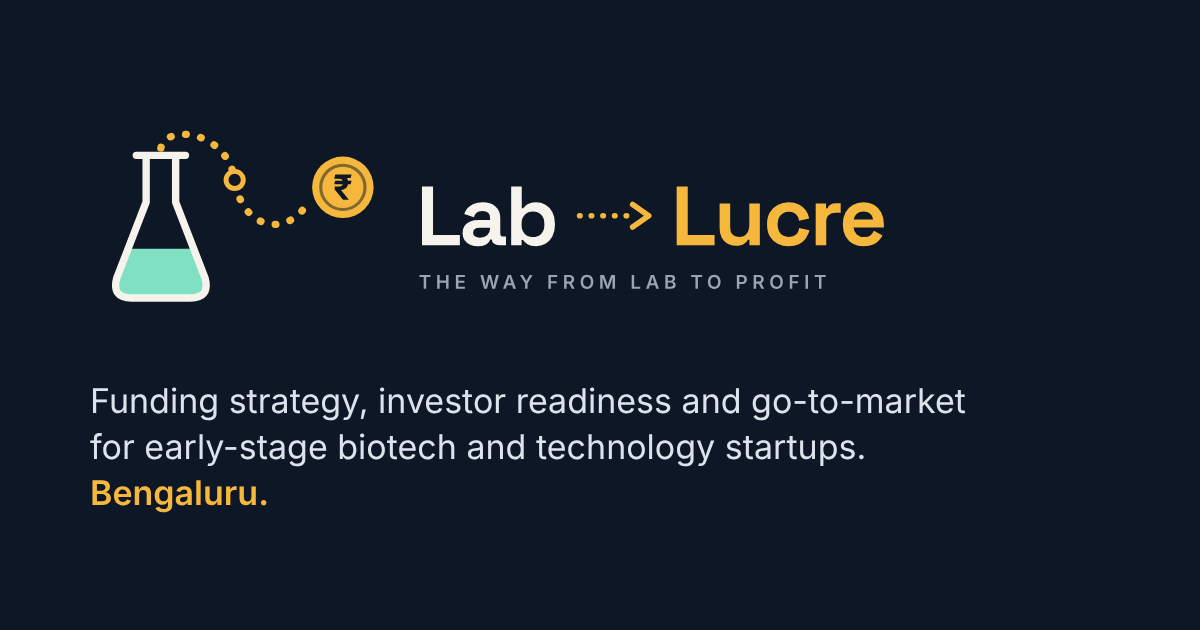
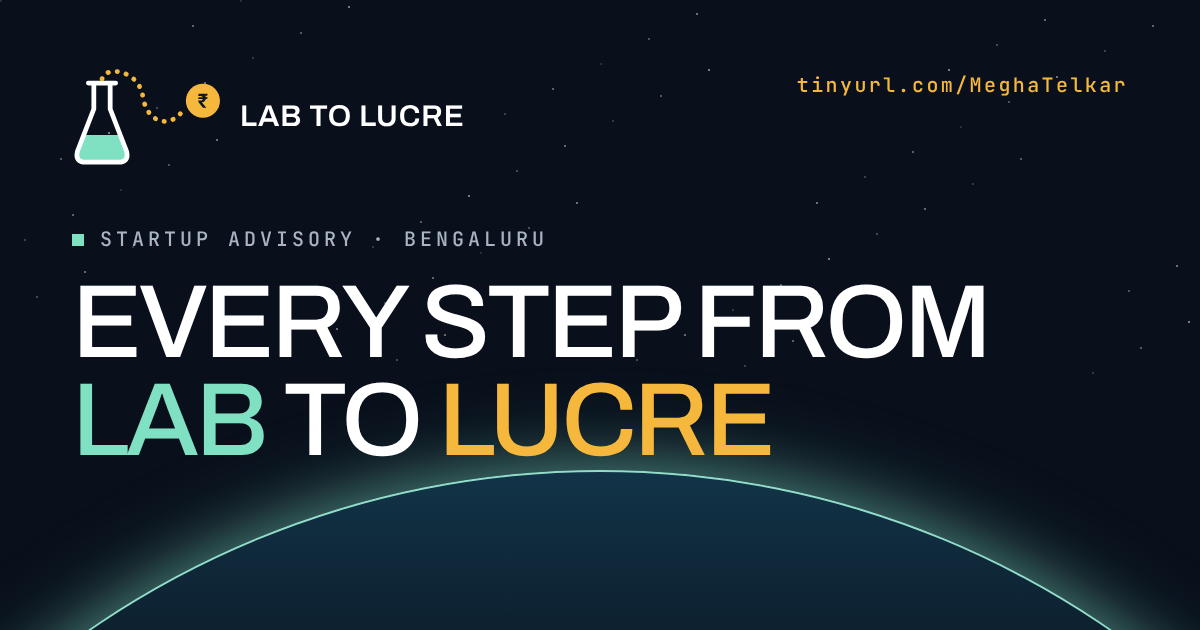
Remove repeated CTAs and copy; footer wordmark with falling coins; launch checklist fixes
One Book a 1:1 (header), no duplicate services/email/LinkedIn/slots blocks,
quiz progress bar and score ring, form and copy confirmations, new OG
image, shorter title and description for search results.

Claude-Session: https://claude.ai/code/session_016mQ2kp5KHzcSRUk6zS9FB7

diff --git a/index.html b/index.html
@@ -7,8 +7,8 @@
 <meta name="referrer" content="strict-origin-when-cross-origin">
 <meta http-equiv="X-Content-Type-Options" content="nosniff">
 <meta http-equiv="Permissions-Policy" content="camera=(), microphone=(), geolocation=(), payment=()">
-<title>Lab to Lucre | Funding strategy for early-stage startups, by Megha Telkar</title>
-<meta name="description" content="Lab to Lucre helps early-stage biotech, life-science and technology founders in India get investor-ready: funding strategy, investor readiness and go-to-market, with a written plan in 5 days.">
+<title>Lab to Lucre | Startup funding strategy by Megha Telkar</title>
+<meta name="description" content="Funding strategy, investor readiness and go-to-market for early-stage biotech, life-science and tech startups in India. A written plan in 5 working days.">
 <meta name="author" content="Megha Telkar">
 <meta name="robots" content="index, follow">
 <meta name="theme-color" content="#0E1726">
@@ -121,10 +121,11 @@ nav.main{display:flex;align-items:center;justify-content:space-between;height:68
   .burger{display:block}
   .newsbar .right{display:none}
 }
-@media (max-width:520px){.nav-cta{display:none}.newsbar{font-size:.64rem}}
+.btn{white-space:nowrap}
+@media (max-width:520px){.nav-cta{padding:10px 14px;letter-spacing:.06em;font-size:.7rem}.nav-cta .ar,.nav-cta .live{display:none}.logo span{font-size:.88rem}.logo .mark{width:36px}}
 
 /* hero */
-.hero{background:var(--night);color:var(--white);min-height:100vh;min-height:100svh;padding:168px 0 0;display:flex;flex-direction:column;overflow:hidden;isolation:isolate}
+.hero{background:var(--night);color:var(--white);min-height:100vh;min-height:100svh;padding:140px 0 0;display:flex;flex-direction:column;overflow:hidden;isolation:isolate}
 .hero-fx{position:absolute;inset:0;width:100%;height:100%;z-index:-1}
 .hero .wrap{width:100%}
 .hero h1{font-size:clamp(2.6rem,6.6vw,5.6rem);line-height:.96;font-weight:500}
@@ -151,14 +152,14 @@ nav.main{display:flex;align-items:center;justify-content:space-between;height:68
 @media (max-width:860px){.split{grid-template-columns:1fr;gap:28px}}
 
 /* numbers */
-.nums{display:grid;grid-template-columns:repeat(4,1fr);border-top:1px solid var(--line);border-left:1px solid var(--line);margin-top:56px}
+.nums{display:grid;grid-template-columns:repeat(3,1fr);border-top:1px solid var(--line);border-left:1px solid var(--line);margin-top:56px}
 .num{border-right:1px solid var(--line);border-bottom:1px solid var(--line);padding:36px 32px 30px;display:flex;flex-direction:column;justify-content:space-between;min-height:220px;position:relative;overflow:hidden}
 .num span{font-family:var(--mono);font-size:.72rem;letter-spacing:.16em;text-transform:uppercase;color:var(--muted);max-width:24ch}
 .num b{font-weight:400;font-size:clamp(2.8rem,5.4vw,4.6rem);letter-spacing:-.04em;line-height:1;margin-top:28px;font-variant-numeric:tabular-nums}
 .num::after{content:"";position:absolute;left:0;bottom:0;height:3px;width:100%;background:linear-gradient(90deg,var(--mint),var(--gold));transform:scaleX(0);transform-origin:0 50%;transition:transform 1.4s var(--ease)}
 .num.in::after{transform:scaleX(1)}
-@media (max-width:860px){.nums{grid-template-columns:1fr 1fr}.num{min-height:170px;padding:26px 20px}}
-@media (max-width:420px){.nums{grid-template-columns:1fr}}
+@media (max-width:860px){.nums{grid-template-columns:1fr}.num{min-height:170px;padding:26px 20px}}
+
 
 /* journey route */
 .route{position:relative;margin-top:72px;--p:1}
@@ -436,16 +437,48 @@ footer{background:var(--night);color:var(--dtext);padding:96px 0 40px}
   .num::after{transition:none}
 }
 
+/* live dot on the booking button */
+.live{width:7px;height:7px;border-radius:50%;background:#1FB386;box-shadow:0 0 0 0 rgba(31,179,134,.6);animation:ping 2s infinite;flex:none}
+
+/* app-style micro-interactions (60fps) */
+.btn:active{transform:scale(.96)}
+.quiz label:has(input:checked){animation:pick .35s cubic-bezier(.3,1.6,.5,1)}
+@keyframes pick{0%{transform:scale(.97)}100%{transform:scale(1)}}
+.quiz fieldset{transition:border-color .3s,box-shadow .3s}
+.quiz fieldset:has(input:checked){border-color:rgba(15,110,92,.45)}
+.quiz fieldset:has(input:checked)::before{content:"\2713";color:#fff;background:var(--teal);width:24px;height:24px;border-radius:50%;display:grid;place-items:center;font-size:.8rem;top:20px;right:18px;letter-spacing:0;animation:pop .4s cubic-bezier(.3,1.6,.5,1)}
+@keyframes pop{0%{transform:scale(0)}100%{transform:scale(1)}}
+.qbar{grid-column:1/-1;height:4px;border-radius:4px;background:var(--line);overflow:hidden;margin-top:6px}
+.qbar i{display:block;height:100%;width:calc(var(--q,0) * 100% / 6);background:linear-gradient(90deg,var(--teal),var(--gold));transition:width .5s cubic-bezier(.2,.7,.2,1)}
+.qcount{font-family:var(--mono);font-size:.72rem;letter-spacing:.14em;text-transform:uppercase;color:var(--muted)}
+.ring{width:150px;height:150px;grid-row:span 3;position:relative}
+.ring svg{width:100%;height:100%;transform:rotate(-90deg)}
+.ring circle{fill:none;stroke-width:10}
+.ring .bg{stroke:rgba(232,237,243,.12)}
+.ring .fg{stroke:var(--gold);stroke-linecap:round;stroke-dasharray:0 100;transition:stroke-dasharray 1s cubic-bezier(.2,.7,.2,1)}
+.ring .score{position:absolute;inset:0;display:flex;align-items:baseline;justify-content:center;padding-top:44px;font-size:3.4rem;grid-row:auto;line-height:1}
+.ring .score small{font-size:.32em;margin-left:2px}
+#form button[type=submit].sent{background:var(--teal)}
+button.copy.ok{border-color:var(--mint);color:var(--mint)}
+
+/* footer: oversized wordmark that fills as you arrive, coins fall where you point (Footer gallery) */
+.giant{position:relative;margin-top:72px;padding-top:30px;overflow:hidden;user-select:none;-webkit-user-select:none;cursor:crosshair;touch-action:pan-y}
+.gw{display:inline-block;font-weight:600;text-transform:uppercase;letter-spacing:-.045em;line-height:.8;font-size:clamp(3.4rem,15.2vw,15.5rem);white-space:nowrap;padding:.08em 0 .06em;
+  background:linear-gradient(90deg,var(--mint) 0%,var(--gold) var(--fill,0%),#1A2536 var(--fill,0%));-webkit-background-clip:text;background-clip:text;color:transparent}
+#coinFx{position:absolute;inset:0;width:100%;height:100%;pointer-events:none}
+.giant-hint{position:absolute;right:0;top:0;font-family:var(--mono);font-size:.68rem;letter-spacing:.16em;text-transform:uppercase;color:#7D8A9C}
+@media (prefers-reduced-motion:reduce){.giant{cursor:auto}.gw{--fill:100%}}
+footer{padding-bottom:28px}
+.f-base{margin-top:28px}
+.f-grid{grid-template-columns:6fr 3fr 3fr}
+@media (max-width:860px){.f-grid{grid-template-columns:1fr 1fr}}
+
 </style>
 </head>
 <body>
 <a class="skip" href="#main">Skip to content</a>
 <div class="progress" id="progress" aria-hidden="true"></div>
 <header>
-  <div class="newsbar"><div class="wrap">
-    <a href="#check"><b>New:</b> Free 2-minute investor-readiness check &#8599;</a>
-    <span class="right"><a href="#contact">November 1:1 slots open</a><span aria-hidden="true">|</span><a href="https://www.linkedin.com/in/megha-telkar-286a5b22a/" target="_blank" rel="noopener noreferrer">LinkedIn</a></span>
-  </div></div>
   <nav class="wrap main" aria-label="Main">
     <a class="logo" href="#top"><svg class="mark" viewBox="0 -8 220 152" aria-hidden="true" focusable="false"><path d="M17 96 H71 L80 120 Q84 136 68 136 H20 Q4 136 8 120 Z" fill="#7FE0C2"/><path d="M24 20 H64 M32 20 V58 L8 120 Q4 136 20 136 H68 Q84 136 80 120 L56 58 V20" fill="none" stroke="currentColor" stroke-width="7" stroke-linejoin="round" stroke-linecap="round"/><path d="M44 14 C48 -6 98 0 104 40 C110 80 146 88 164 58" fill="none" stroke="#F5B83D" stroke-width="7" stroke-linecap="round" stroke-dasharray="0.5 13"/><circle cx="192" cy="46" r="25" fill="#F5B83D"/><path transform="translate(184.00 56)" d="M15.025390625 -15.326171875 14.287109375 -12.591796875H0.984375L1.708984375 -15.326171875ZM8.1484375 0.0 1.326171875 -8.1484375 1.3125 -10.58203125H4.703125Q5.8515625 -10.58203125 6.6171875 -10.9990234375Q7.3828125 -11.416015625 7.779296875 -12.140625Q8.17578125 -12.865234375 8.17578125 -13.794921875Q8.17578125 -15.203125 7.3623046875 -16.078125Q6.548828125 -16.953125 4.703125 -16.953125H0.984375L1.8046875 -20.37109375H4.703125Q7.232421875 -20.37109375 8.9140625 -19.60546875Q10.595703125 -18.83984375 11.443359375 -17.4384765625Q12.291015625 -16.037109375 12.291015625 -14.109375Q12.291015625 -12.400390625 11.716796875 -11.1015625Q11.142578125 -9.802734375 9.92578125 -8.955078125Q8.708984375 -8.107421875 6.767578125 -7.73828125L6.6171875 -7.669921875L12.71484375 -0.177734375V0.0ZM15.0390625 -20.37109375 14.287109375 -17.58203125 3.36328125 -17.595703125 4.115234375 -20.37109375Z" fill="#0E1726"/></svg><span>Lab to Lucre</span></a>
     <ul class="links" id="links">
@@ -457,7 +490,7 @@ footer{background:var(--night);color:var(--dtext);padding:96px 0 40px}
       <li><a href="#contact">Contact</a></li>
     </ul>
     <div style="display:flex;gap:10px;align-items:center">
-      <a class="btn btn-solid nav-cta" href="#contact">Book a 1:1 <span class="ar" aria-hidden="true">&#8599;</span></a>
+      <a class="btn btn-solid nav-cta" href="#contact"><span class="live" aria-hidden="true"></span>Book a 1:1 <span class="ar" aria-hidden="true">&#8599;</span></a>
       <button class="burger" id="burger" type="button" aria-label="Open menu" aria-expanded="false" aria-controls="links">&#9776;</button>
     </div>
   </nav>
@@ -467,12 +500,12 @@ footer{background:var(--night);color:var(--dtext);padding:96px 0 40px}
 <section class="hero" id="top">
   <canvas class="hero-fx" id="heroFx" aria-hidden="true"></canvas>
   <div class="wrap">
-    <p class="eyebrow">One partner, bench to first cheque</p>
+    <p class="eyebrow">Startup advisory &middot; Bengaluru</p>
     <h1 id="heroTitle"><span class="ln" style="--li:0"><span>Every step from</span></span><span class="ln" style="--li:1"><span><span class="mint">lab</span> to <span class="gold">lucre</span></span></span></h1>
-    <p class="sub">Funding strategy, investor readiness and go-to-market for early-stage biotech and technology startups. Lab to Lucre helps founders get from a working prototype to a paying customer, then raise money on that proof.</p>
-    <p class="byline">Megha Telkar, Founder &middot; Bengaluru</p>
+    <p class="sub">Funding strategy, investor readiness and go-to-market for early-stage biotech and technology startups.</p>
+    <p class="byline">Founded by Megha Telkar</p>
     <div class="btns">
-      <a class="btn btn-solid" href="#contact">Book a 1:1 <span class="ar" aria-hidden="true">&#8599;</span></a>
+      <a class="btn btn-solid" href="#check">Check your readiness <span class="ar" aria-hidden="true">&#8599;</span></a>
       <a class="btn btn-ghost" href="#company">Our services <span class="ar" aria-hidden="true">&#8599;</span></a>
     </div>
   </div>
@@ -480,8 +513,8 @@ footer{background:var(--night);color:var(--dtext);padding:96px 0 40px}
   <div class="ticker" aria-hidden="true">
     <span class="lbl">Sectors we work in</span>
     <div class="vp"><div class="tr">
-      <span>Biotech</span><span>MedTech</span><span>Agri-biotech</span><span>Life sciences</span><span>Diagnostics</span><span>Deep tech</span><span>Prototype to first customer</span><span>First customer to first cheque</span>
-      <span class="dup">Biotech</span><span class="dup">MedTech</span><span class="dup">Agri-biotech</span><span class="dup">Life sciences</span><span class="dup">Diagnostics</span><span class="dup">Deep tech</span><span class="dup">Prototype to first customer</span><span class="dup">First customer to first cheque</span>
+      <span>Biotech</span><span>MedTech</span><span>Agri-biotech</span><span>Life sciences</span><span>Diagnostics</span><span>Deep tech</span>
+      <span class="dup">Biotech</span><span class="dup">MedTech</span><span class="dup">Agri-biotech</span><span class="dup">Life sciences</span><span class="dup">Diagnostics</span><span class="dup">Deep tech</span>
     </div></div>
   </div>
 </section>
@@ -491,12 +524,11 @@ footer{background:var(--night);color:var(--dtext);padding:96px 0 40px}
     <div class="split">
       <div>
         <p class="eyebrow">About Lab to Lucre</p>
-        <h2 id="h-intro" class="rvl"><span class="ln" style="--li:0"><span>One advisor,</span></span><span class="ln" style="--li:1"><span>from bench to</span></span><span class="ln" style="--li:2"><span>first cheque.</span></span></h2>
+        <h2 id="h-intro" class="rvl"><span class="ln" style="--li:0"><span>Your science,</span></span><span class="ln" style="--li:1"><span>made fundable.</span></span></h2>
       </div>
       <div class="copy">
         <p class="rv">Lab to Lucre is a Bengaluru consultancy for early-stage technology and life-science startups. The person who reads your science is the same person who shapes your funding route, your investor story and your first sales.</p>
         <p class="rv">Most science-led startups stall between a working prototype and a paying customer. You get one written plan for that stretch, and a clear view of the proof investors will ask for.</p>
-        <div class="btns rv"><a class="btn btn-ink" href="#company">See the services <span class="ar" aria-hidden="true">&#8599;</span></a></div>
       </div>
     </div>
     <p class="eyebrow" style="margin-top:96px">By the numbers</p>
@@ -504,7 +536,6 @@ footer{background:var(--night);color:var(--dtext);padding:96px 0 40px}
       <div class="num" role="listitem"><span>Startups studied to build the funding playbook</span><b data-count="10000" data-suffix="">10,000</b></div>
       <div class="num" role="listitem"><span>Founder events run at Bangalore Bioinnovation Centre</span><b data-count="30" data-suffix="+">30+</b></div>
       <div class="num" role="listitem"><span>Investor and grant introductions made</span><b data-count="20" data-suffix="+">20+</b></div>
-      <div class="num" role="listitem"><span>Working days to your written readiness report</span><b data-count="5" data-suffix="">5</b></div>
     </div>
   </div>
 </section>
@@ -513,7 +544,7 @@ footer{background:var(--night);color:var(--dtext);padding:96px 0 40px}
   <div class="wrap">
     <p class="eyebrow">The route</p>
     <h2 id="h-journey" class="rvl"><span class="ln" style="--li:0"><span>Every stage,</span></span><span class="ln" style="--li:1"><span>planned with intent.</span></span></h2>
-    <p class="lead rv">Where Lab to Lucre works with founders, from the bench to the first cheque.</p>
+    <p class="lead rv">Six stages from idea to commercialisation. Lab to Lucre works across all of them.</p>
     <div class="route" id="route"><span class="traveller" aria-hidden="true">&#8377;</span>
       <ol class="stages" id="stages">
         <li><span class="n" aria-hidden="true"></span><b>Ideation</b><small>Is the problem real, and who pays?</small></li>
@@ -531,7 +562,6 @@ footer{background:var(--night);color:var(--dtext);padding:96px 0 40px}
   <div class="wrap">
     <p class="eyebrow">Our services</p>
     <h2 id="h-company" class="rvl"><span class="ln" style="--li:0"><span>Four services.</span></span><span class="ln" style="--li:1"><span>One partner.</span></span></h2>
-    <p class="lead rv">Lab to Lucre works with founders from prototype to first customer to first cheque.</p>
     <div class="svc-split">
       <div class="svc-panel" aria-hidden="true">
         <span class="idx">Service</span>
@@ -550,8 +580,7 @@ footer{background:var(--night);color:var(--dtext);padding:96px 0 40px}
       <div>
         <p class="eyebrow">After a 1:1</p>
         <h3 style="font-size:clamp(1.6rem,3vw,2.3rem);line-height:1.05;letter-spacing:-.02em">What you get, in writing</h3>
-        <ol class="steps" aria-label="How it works"><li>Book a 1:1</li><li>Written report in 5 days</li><li>Your 90-day plan</li></ol>
-        <div class="btns" style="margin-top:28px;align-items:center"><a class="btn btn-ink" href="#contact">Book a 1:1 slot <span class="ar" aria-hidden="true">&#8599;</span></a><span class="slots">November 1:1 slots open</span></div>
+        <p class="lead" style="margin-top:18px;font-size:1rem">Every 1:1 ends with these five, in writing.</p>
       </div>
       <ol>
         <li class="rv"><span><b>Readiness scorecard.</b> Where you stand on team, story, unit economics, market and traction, scored out of 20 each.</span></li>
@@ -580,7 +609,7 @@ footer{background:var(--night);color:var(--dtext);padding:96px 0 40px}
     <div class="usp">
       <article class="rv"><span class="k">01</span><h3>Fluent in lab and market</h3><p>The founder is a biotech engineer with a marketing MBA. Lab to Lucre understands your science and turns it into a story a customer and an investor will both buy.</p><span class="vs">Unlike science-blind deck polishers</span></article>
       <article class="rv"><span class="k">02</span><h3>Built for the early stage</h3><p>Lab to Lucre covers prototype, first customer and first cheque, the stretch where most founders are left alone.</p><span class="vs">Unlike advisors who start at Series A</span></article>
-      <article class="rv"><span class="k">03</span><h3>A plan, not a pitch list</h3><p>You get a written report in 5 days and a 90-day plan with owners and deadlines.</p><span class="vs">Unlike sellers of investor lists</span></article>
+      <article class="rv"><span class="k">03</span><h3>A plan, not a pitch list</h3><p>You leave with written next steps, owners and deadlines, not a list of names to cold-email.</p><span class="vs">Unlike sellers of investor lists</span></article>
     </div>
     <div class="research rv">
       <div><p class="eyebrow" style="margin-bottom:12px">Field notes</p><h3>How fundraising help usually works</h3></div>
@@ -591,7 +620,6 @@ footer{background:var(--night);color:var(--dtext);padding:96px 0 40px}
         <li>Founders say their biggest worry is paying upfront for investor access with no clear deliverables.</li>
       </ul>
     </div>
-    <div class="cta"><a class="btn btn-gold" href="#contact">Book a 1:1 slot <span class="ar" aria-hidden="true">&#8599;</span></a><span class="slots">November 1:1 slots open</span></div>
   </div>
 </section>
 
@@ -625,11 +653,12 @@ footer{background:var(--night);color:var(--dtext);padding:96px 0 40px}
         <label><input type="radio" name="q6" value="2"> Yes, they have told us so</label>
         <label><input type="radio" name="q6" value="1"> Some would</label>
         <label><input type="radio" name="q6" value="0"> We haven't asked</label></fieldset>
-      <div class="qfoot"><button class="btn btn-ink" type="submit">Show my result <span class="ar" aria-hidden="true">&#8599;</span></button>
+      <div class="qbar" aria-hidden="true"><i id="qBar"></i></div>
+      <div class="qfoot"><span class="qcount" id="qCount" aria-hidden="true">0 of 6 answered</span><button class="btn btn-ink" type="submit">Show my result <span class="ar" aria-hidden="true">&#8599;</span></button>
       <p class="note" id="quizNote" role="status"></p></div>
     </form>
     <div class="result" id="quizResult" hidden tabindex="-1">
-      <p class="score"><span id="qScore">0</span><small>/12</small></p>
+      <div class="ring"><svg viewBox="0 0 120 120" aria-hidden="true"><circle class="bg" cx="60" cy="60" r="50" pathLength="100"/><circle class="fg" id="qRing" cx="60" cy="60" r="50" pathLength="100"/></svg><p class="score"><span id="qScore">0</span><small>/12</small></p></div>
       <h3 id="qBand"></h3>
       <ul id="qGaps"></ul>
       <a class="btn btn-gold" id="qShare" href="#contact">Get a plan for these gaps <span class="ar" aria-hidden="true">&#8599;</span></a>
@@ -650,14 +679,12 @@ footer{background:var(--night);color:var(--dtext);padding:96px 0 40px}
           <h3>Connect with Megha on LinkedIn</h3>
           <p>Send a connection request and mention that you came from the Lab to Lucre website.</p>
           <a class="btn btn-ink" id="li-btn" href="https://www.linkedin.com/in/megha-telkar-286a5b22a/" target="_blank" rel="noopener noreferrer">Add Megha on LinkedIn <span class="ar" aria-hidden="true">&#8599;</span></a>
-          <span class="li-id">linkedin.com/in/megha-telkar-286a5b22a</span>
         </div>
       </div>
       <div class="facts rv">
         <h3>At a glance</h3>
         <dl>
           <div><dt>Company</dt><dd>Lab to Lucre, Bengaluru</dd></div>
-          <div><dt>Focus</dt><dd>Funding strategy, investor readiness, go-to-market</dd></div>
           <div><dt>Sectors</dt><dd>Biotechnology, life sciences, MedTech, agri-biotech</dd></div>
           <div><dt>Founder background</dt><dd>Biotech engineer with a marketing MBA</dd></div>
           <div><dt>Credential</dt><dd>Harvard Business School Online certificate in alternative investments</dd></div>
@@ -771,8 +798,7 @@ footer{background:var(--night);color:var(--dtext);padding:96px 0 40px}
     <div class="faq-side">
       <p class="eyebrow">Questions</p>
       <h2 id="h-faq" class="rvl"><span class="ln" style="--li:0"><span>Questions</span></span><span class="ln" style="--li:1"><span>founders ask</span></span></h2>
-      <p class="lead rv">Quick answers to what founders ask most.</p>
-      <div class="ask rv"><h3>Can't find your answer?</h3><p>Send a note with your stage and question. Megha reads every query and replies by email.</p><a class="btn btn-ink" href="mailto:telkar.megha24@gmail.com">Email Megha <span class="ar" aria-hidden="true">&#8599;</span></a></div>
+      <p class="lead rv">Quick answers to what founders ask most. Anything else, ask in the form below.</p>
     </div>
     <div>
       <details class="dd"><summary><span class="qn">01</span>Who is Lab to Lucre for?</summary><div class="dd-body"><p>Early-stage founders in biotech, life sciences, MedTech, agri-biotech and other technology startups, from a working prototype to the first raise.</p></div></details>
@@ -788,12 +814,11 @@ footer{background:var(--night);color:var(--dtext);padding:96px 0 40px}
   <div class="wrap">
     <p class="eyebrow">Work with us</p>
     <h2 id="h-contact" class="rvl"><span class="ln" style="--li:0"><span>Let's get your startup</span></span><span class="ln" style="--li:1"><span class="gold">investor-ready.</span></span></h2>
-    <p class="lead rv">Tell me about your startup and pick the help you need. I read every query and reply by email. November 1:1 slots are open.</p>
+    <p class="lead rv">Tell me about your startup and pick the help you need. I read every query and reply by email.</p>
     <div class="contact-grid">
       <ul class="details rv">
         <li><span>Email</span><a href="mailto:telkar.megha24@gmail.com" id="mail">telkar.megha24@gmail.com</a><button class="copy" id="copy" type="button">Copy</button></li>
         <li><span>Phone</span><a href="tel:+917019654059">+91 70196 54059</a></li>
-        <li><span>LinkedIn</span><a href="https://www.linkedin.com/in/megha-telkar-286a5b22a/" target="_blank" rel="noopener noreferrer">linkedin.com/in/megha-telkar-286a5b22a</a></li>
         <li><span>Location</span>Bengaluru, Karnataka</li>
       </ul>
     <form id="form" novalidate>
@@ -833,14 +858,13 @@ footer{background:var(--night);color:var(--dtext);padding:96px 0 40px}
     <div class="f-grid">
       <div class="f-brand">
         <a class="logo" href="#top"><svg class="mark" viewBox="0 -8 220 152" aria-hidden="true" focusable="false"><path d="M17 96 H71 L80 120 Q84 136 68 136 H20 Q4 136 8 120 Z" fill="#7FE0C2"/><path d="M24 20 H64 M32 20 V58 L8 120 Q4 136 20 136 H68 Q84 136 80 120 L56 58 V20" fill="none" stroke="currentColor" stroke-width="7" stroke-linejoin="round" stroke-linecap="round"/><path d="M44 14 C48 -6 98 0 104 40 C110 80 146 88 164 58" fill="none" stroke="#F5B83D" stroke-width="7" stroke-linecap="round" stroke-dasharray="0.5 13"/><circle cx="192" cy="46" r="25" fill="#F5B83D"/><path transform="translate(184.00 56)" d="M15.025390625 -15.326171875 14.287109375 -12.591796875H0.984375L1.708984375 -15.326171875ZM8.1484375 0.0 1.326171875 -8.1484375 1.3125 -10.58203125H4.703125Q5.8515625 -10.58203125 6.6171875 -10.9990234375Q7.3828125 -11.416015625 7.779296875 -12.140625Q8.17578125 -12.865234375 8.17578125 -13.794921875Q8.17578125 -15.203125 7.3623046875 -16.078125Q6.548828125 -16.953125 4.703125 -16.953125H0.984375L1.8046875 -20.37109375H4.703125Q7.232421875 -20.37109375 8.9140625 -19.60546875Q10.595703125 -18.83984375 11.443359375 -17.4384765625Q12.291015625 -16.037109375 12.291015625 -14.109375Q12.291015625 -12.400390625 11.716796875 -11.1015625Q11.142578125 -9.802734375 9.92578125 -8.955078125Q8.708984375 -8.107421875 6.767578125 -7.73828125L6.6171875 -7.669921875L12.71484375 -0.177734375V0.0ZM15.0390625 -20.37109375 14.287109375 -17.58203125 3.36328125 -17.595703125 4.115234375 -20.37109375Z" fill="#0E1726"/></svg><span>Lab to Lucre</span></a>
-        <p class="f-line">One partner.<span>Every step from lab to lucre.</span></p>
-        <div class="social"><a href="https://www.linkedin.com/in/megha-telkar-286a5b22a/" target="_blank" rel="noopener noreferrer" aria-label="Megha Telkar on LinkedIn"><svg viewBox="0 0 24 24" fill="currentColor" aria-hidden="true"><path d="M4.98 3.5a2.5 2.5 0 1 1 0 5 2.5 2.5 0 0 1 0-5zM3 9.5h4V21H3zM9.5 9.5h3.8v1.6h.06c.53-1 1.83-2.06 3.77-2.06 4.03 0 4.77 2.65 4.77 6.1V21h-4v-5.1c0-1.22-.02-2.79-1.7-2.79-1.7 0-1.96 1.33-1.96 2.7V21h-4z"/></svg></a><a href="mailto:telkar.megha24@gmail.com" aria-label="Email Megha"><svg viewBox="0 0 24 24" fill="none" stroke="currentColor" stroke-width="1.8" aria-hidden="true"><rect x="3" y="5" width="18" height="14" rx="2"/><path d="M3.5 6.5 12 13l8.5-6.5"/></svg></a></div>
+        <p class="f-line">The way from<span>lab to profit.</span></p>
       </div>
-      <div class="f-col"><h3>Company</h3><ul><li><a href="#company">Services</a></li><li><a href="#why-me">Why us</a></li><li><a href="#check">Readiness check</a></li><li><a href="#about">Founder</a></li><li><a href="#faq">FAQ</a></li></ul></div>
-      <div class="f-col"><h3>Services</h3><ul><li><a href="#company">Funding strategy</a></li><li><a href="#company">Investor readiness</a></li><li><a href="#company">Go-to-market</a></li><li><a href="#contact">1:1 advisory</a></li></ul></div>
-      <div class="f-col"><h3>Contact</h3><ul><li><a href="mailto:telkar.megha24@gmail.com">Email</a></li><li><a href="tel:+917019654059">+91 70196 54059</a></li><li><a href="https://www.linkedin.com/in/megha-telkar-286a5b22a/" target="_blank" rel="noopener noreferrer">LinkedIn</a></li><li>Bengaluru, India</li></ul></div>
+      <nav class="f-col" aria-label="Footer"><h3>Explore</h3><ul><li><a href="#company">Services</a></li><li><a href="#why-me">Why us</a></li><li><a href="#check">Readiness check</a></li><li><a href="#about">Founder</a></li><li><a href="#faq">FAQ</a></li></ul></nav>
+      <div class="f-col"><h3>Say hello</h3><div class="social"><a href="https://www.linkedin.com/in/megha-telkar-286a5b22a/" target="_blank" rel="noopener noreferrer" aria-label="Megha Telkar on LinkedIn"><svg viewBox="0 0 24 24" fill="currentColor" aria-hidden="true"><path d="M4.98 3.5a2.5 2.5 0 1 1 0 5 2.5 2.5 0 0 1 0-5zM3 9.5h4V21H3zM9.5 9.5h3.8v1.6h.06c.53-1 1.83-2.06 3.77-2.06 4.03 0 4.77 2.65 4.77 6.1V21h-4v-5.1c0-1.22-.02-2.79-1.7-2.79-1.7 0-1.96 1.33-1.96 2.7V21h-4z"/></svg></a><a href="mailto:telkar.megha24@gmail.com" aria-label="Email Megha"><svg viewBox="0 0 24 24" fill="none" stroke="currentColor" stroke-width="1.8" aria-hidden="true"><rect x="3" y="5" width="18" height="14" rx="2"/><path d="M3.5 6.5 12 13l8.5-6.5"/></svg></a></div></div>
     </div>
-    <div class="f-base"><p>&copy; <span id="yr"></span> Lab to Lucre. Founded by Megha Telkar.</p><p><a href="privacy.html">Privacy policy</a> &middot; <a href="#top">Back to top &#8593;</a></p></div>
+    <div class="giant" id="giant" aria-hidden="true"><span class="giant-hint">Point here &middot; drop a coin on your way out</span><span class="gw" id="gw">Lab to Lucre</span><canvas id="coinFx"></canvas></div>
+    <div class="f-base"><p>&copy; <span id="yr"></span> Lab to Lucre. Founded by Megha Telkar, Bengaluru.</p><p><a href="privacy.html">Privacy policy</a></p></div>
   </div>
 </footer>
 
@@ -1192,6 +1216,61 @@ document.getElementById('yr').textContent = new Date().getFullYear();
     (function loop(t){var dt=lt?t-lt:0;lt=t;if(vis&&!paused&&!document.hidden){acc+=dt;if(acc>=DUR){acc=0;nx.click();}}bar.style.transform='scaleX('+(acc/DUR).toFixed(3)+')';requestAnimationFrame(loop);})(0);
   }
 })();
+(function(){
+  var reduce=matchMedia('(prefers-reduced-motion: reduce)').matches,IO='IntersectionObserver' in window;
+
+  // ---- quiz: live progress, then the score ring fills ----
+  var quiz=document.getElementById('quiz'),bar=document.getElementById('qBar'),cnt=document.getElementById('qCount'),ring=document.getElementById('qRing');
+  if(quiz){
+    function prog(){var n=quiz.querySelectorAll('input[type=radio]:checked').length;if(bar)bar.parentNode.style.setProperty('--q',n);if(bar)bar.style.width=(n/6*100)+'%';if(cnt)cnt.textContent=n+' of 6 answered';}
+    quiz.addEventListener('change',prog);prog();
+    quiz.addEventListener('submit',function(){var t=0,n=0;quiz.querySelectorAll('input[type=radio]:checked').forEach(function(c){t+=+c.value;n++});if(n<6||!ring)return;ring.style.strokeDasharray='0 100';void ring.getBoundingClientRect();setTimeout(function(){ring.style.strokeDasharray=(t/12*100).toFixed(1)+' 100';},reduce?0:60);});
+  }
+
+  // ---- form: the send button confirms with a tick ----
+  var note=document.getElementById('note'),fb=document.querySelector('#form button[type=submit]');
+  if(note&&fb&&'MutationObserver' in window){var label=fb.innerHTML;new MutationObserver(function(){if(/received|has been sent/i.test(note.textContent)){fb.classList.add('sent');fb.innerHTML='&#10003; Sent';setTimeout(function(){fb.classList.remove('sent');fb.innerHTML=label;},4000);}}).observe(note,{childList:true,characterData:true,subtree:true});}
+
+  // ---- copy email: brief confirmation state ----
+  var cp=document.getElementById('copy');if(cp)cp.addEventListener('click',function(){cp.classList.add('ok');setTimeout(function(){cp.classList.remove('ok')},1800);});
+
+  // ---- footer wordmark fills mint to gold as you reach the bottom ----
+  var giant=document.getElementById('giant'),gw=document.getElementById('gw');
+  if(giant&&gw&&!reduce){var tk=false;function fill(){tk=false;var r=giant.getBoundingClientRect(),p=Math.max(0,Math.min(1,(innerHeight-r.top)/(r.height+innerHeight*0.35)));gw.style.setProperty('--fill',(p*100).toFixed(1)+'%');}
+    addEventListener('scroll',function(){if(!tk){tk=true;requestAnimationFrame(fill)}},{passive:true});fill();}
+
+  // ---- footer: coins fall where you point and pile up on the baseline ----
+  var cv=document.getElementById('coinFx');
+  if(cv&&giant&&!reduce&&cv.getContext){
+    var ctx=cv.getContext('2d'),dpr=Math.min(devicePixelRatio||1,2),W=0,H=0,coins=[],raf=null,lastDrop=0,vis=false;
+    function size(){var r=giant.getBoundingClientRect();W=r.width;H=r.height;cv.width=W*dpr;cv.height=H*dpr;ctx.setTransform(dpr,0,0,dpr,0,0);}
+    size();addEventListener('resize',size);
+    function drop(x,y){if(coins.length>60)coins.shift();coins.push({x:x,y:y,vx:(Math.random()-.5)*2.2,vy:-2-Math.random()*2,r:9+Math.random()*5,rot:0,vr:(Math.random()-.5)*.3,rest:false,life:1});if(!raf)raf=requestAnimationFrame(step);}
+    function step(){
+      ctx.clearRect(0,0,W,H);var alive=false;
+      for(var i=0;i<coins.length;i++){var c=coins[i];
+        if(!c.rest){c.vy+=.45;c.x+=c.vx;c.y+=c.vy;c.rot+=c.vr;
+          if(c.y>H-c.r){c.y=H-c.r;if(Math.abs(c.vy)>2.2){c.vy*=-.42;c.vx*=.7;}else{c.vy=0;c.vx*=.85;if(Math.abs(c.vx)<.05)c.rest=true;}}
+          if(c.x<c.r||c.x>W-c.r)c.vx*=-1;alive=true;}
+        else{c.life-=.004;if(c.life>0)alive=true;}
+        if(c.life<=0)continue;
+        ctx.save();ctx.globalAlpha=Math.min(1,c.life*2);ctx.translate(c.x,c.y);ctx.rotate(c.rot);
+        ctx.fillStyle='#F5B83D';ctx.beginPath();ctx.arc(0,0,c.r,0,6.283);ctx.fill();
+        ctx.strokeStyle='rgba(14,23,38,.35)';ctx.lineWidth=1.5;ctx.beginPath();ctx.arc(0,0,c.r*.72,0,6.283);ctx.stroke();
+        ctx.fillStyle='#0E1726';ctx.font='700 '+Math.round(c.r*1.15)+'px Archivo,system-ui,sans-serif';ctx.textAlign='center';ctx.textBaseline='middle';ctx.fillText('₹',0,1);ctx.restore();}
+      coins=coins.filter(function(c){return c.life>0});
+      raf=(alive&&vis)?requestAnimationFrame(step):null;
+    }
+    giant.addEventListener('pointermove',function(e){var t=performance.now();if(t-lastDrop<70)return;lastDrop=t;var r=giant.getBoundingClientRect();drop(e.clientX-r.left,Math.max(10,e.clientY-r.top));});
+    giant.addEventListener('pointerdown',function(e){var r=giant.getBoundingClientRect();for(var k=0;k<5;k++)drop(e.clientX-r.left+(Math.random()-.5)*20,Math.max(10,e.clientY-r.top));});
+    if(IO)new IntersectionObserver(function(es){vis=es[0].isIntersecting;if(vis){size();if(coins.length&&!raf)raf=requestAnimationFrame(step);
+      // a small welcome shower the first time the footer comes into view
+      if(!giant._d){giant._d=1;for(var k=0;k<7;k++)(function(k){setTimeout(function(){drop(W*(.12+k*.12),8)},k*140)})(k);}}}).observe(giant);
+  }
+})();
+(function(){var g=document.getElementById('giant'),w=document.getElementById('gw');if(!g||!w)return;
+  function fit(){w.style.fontSize='100px';var k=g.clientWidth/w.scrollWidth;w.style.fontSize=Math.floor(100*k*0.99)+'px';}
+  fit();addEventListener('resize',fit);if(document.fonts&&document.fonts.ready)document.fonts.ready.then(fit);})();
 </script>
 </body>
 </html>
